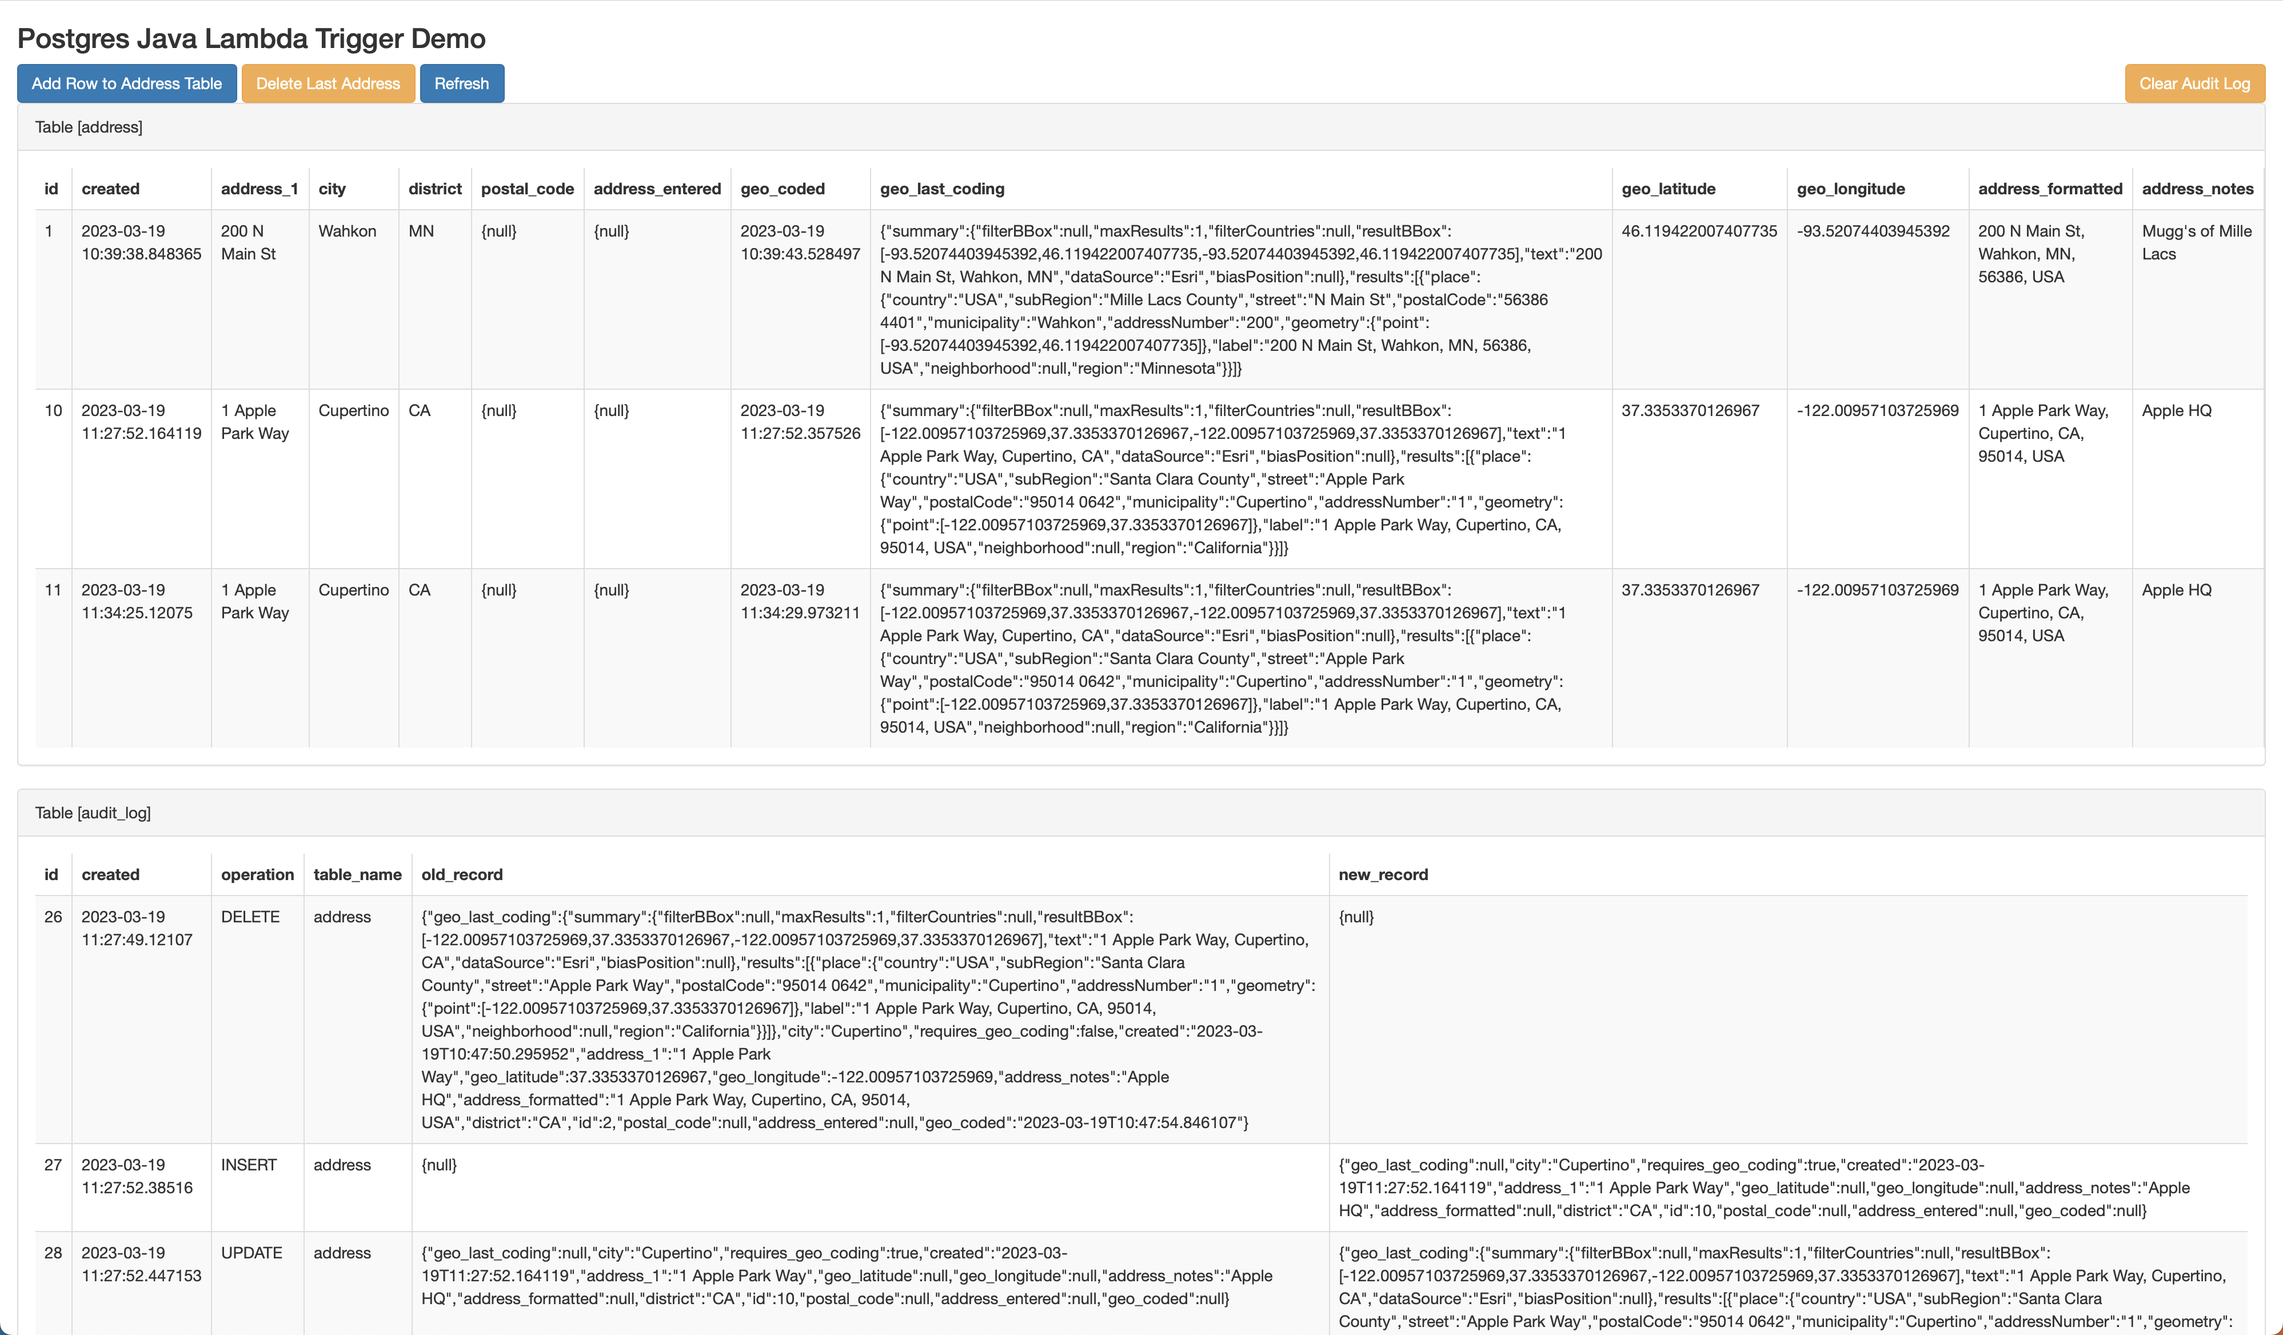
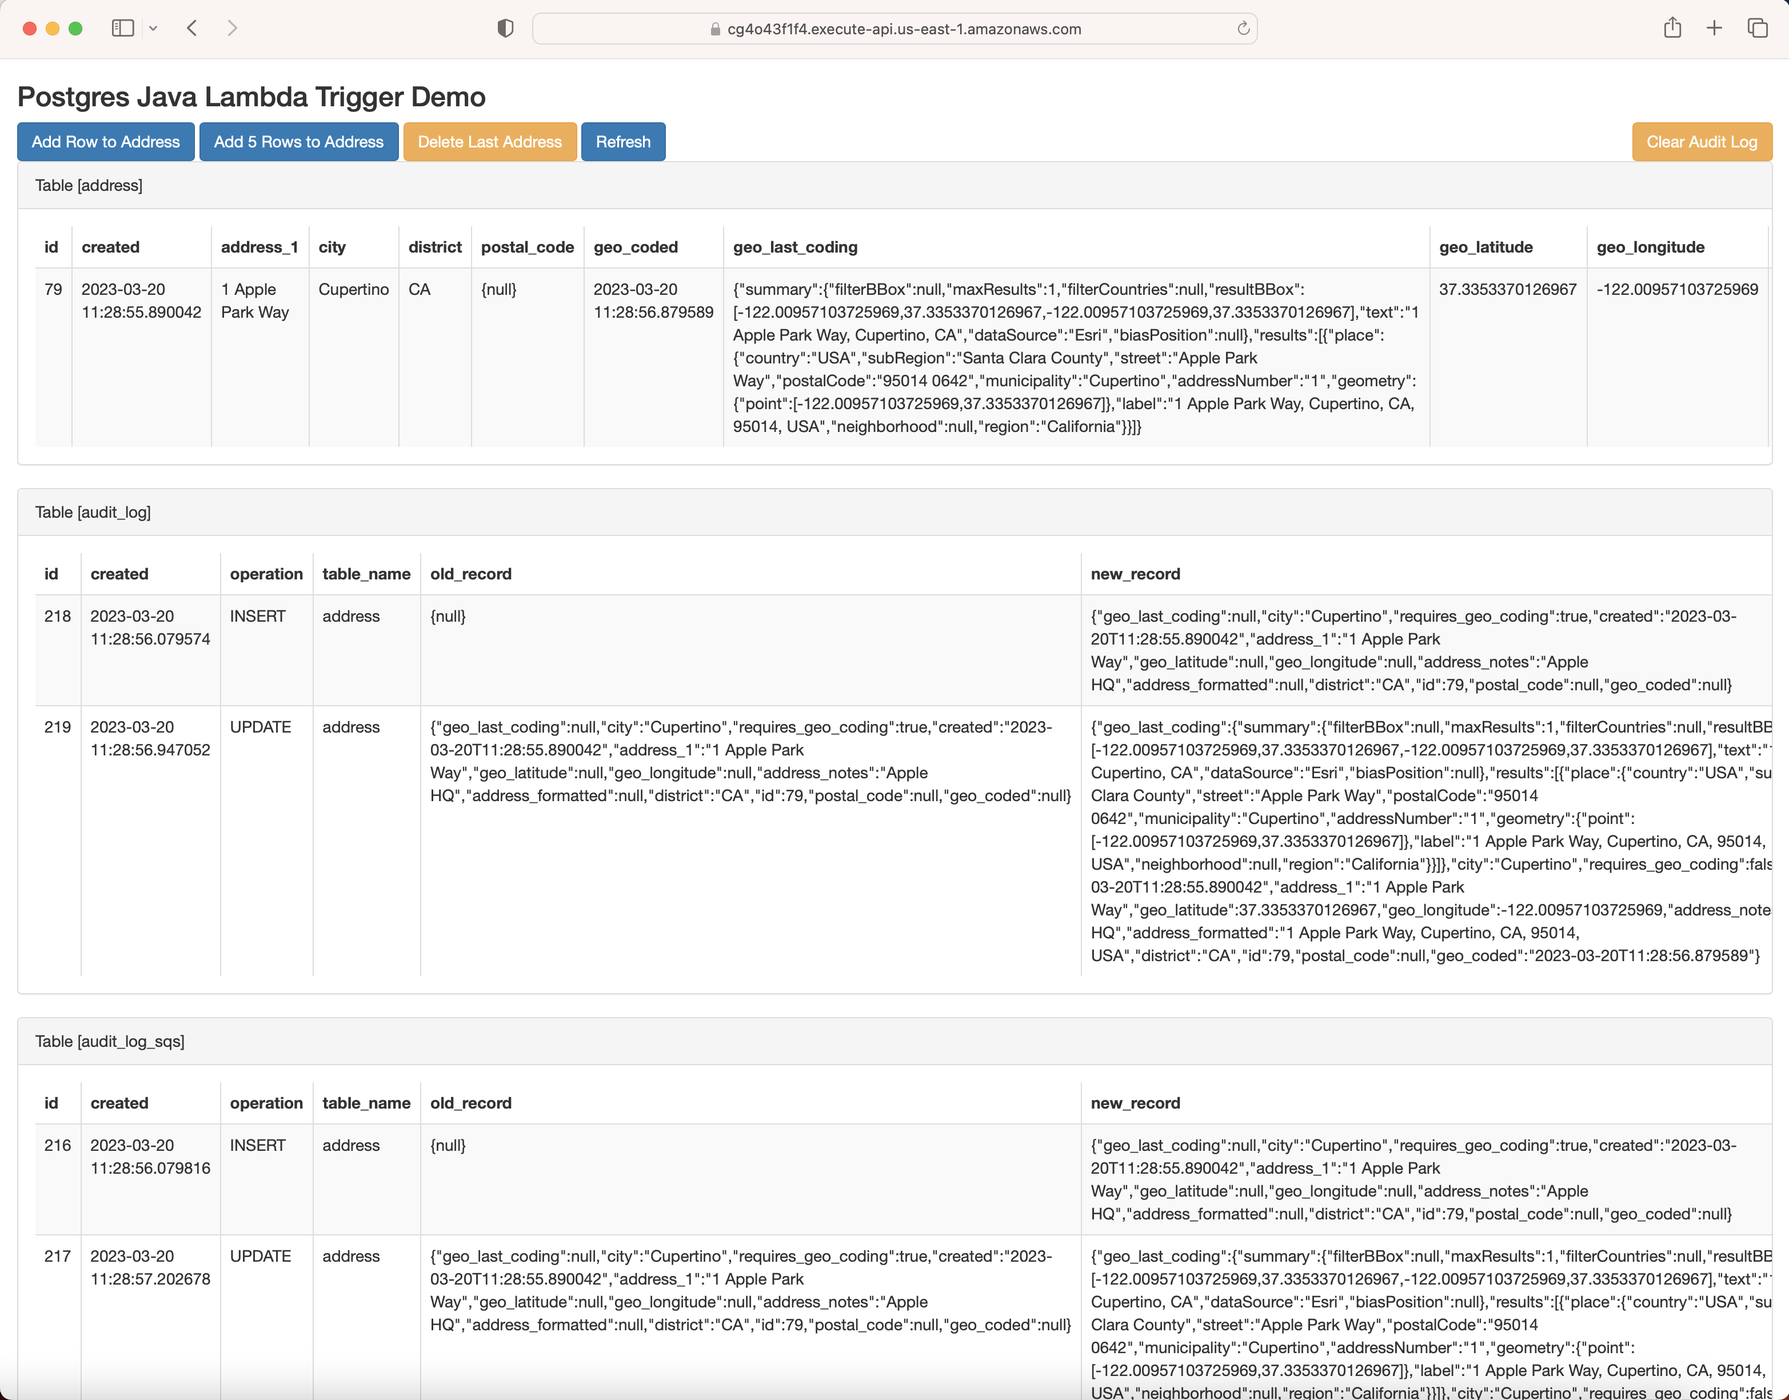
Added SQS Example

diff --git a/src/main/java/demo/PostgresAddressTrigger.java b/src/main/java/demo/PostgresAddressTrigger.java
@@ -4,7 +4,6 @@
  */
 package demo;
 
-
 import com.fasterxml.jackson.databind.JsonNode;
 import static demo.PostgresAbstractTrigger.TG_OP.INSERT;
 import java.util.Objects;
@@ -17,10 +16,9 @@ import software.amazon.awssdk.regions.Region;
 import software.amazon.awssdk.services.location.LocationClient;
 import software.amazon.awssdk.services.location.model.SearchPlaceIndexForTextResponse;
 
-
 /**
  * Geo Code Addresses that are added to the address table
- * 
+ *
  * @author sjensen
  */
 public class PostgresAddressTrigger extends PostgresAbstractTrigger {
@@ -34,10 +32,10 @@ public class PostgresAddressTrigger extends PostgresAbstractTrigger {
                 .credentialsProvider(EnvironmentVariableCredentialsProvider.create())
                 .httpClient(UrlConnectionHttpClient.builder().build())
                 .build();
-        
+
         PLACE_INDEX = System.getenv("PLACE_INDEX");
     }
-    
+
     @Override
     protected void processEvent(TG_OP operation, String table_name, JsonNode old_addr, JsonNode new_addr) {
 
@@ -51,11 +49,11 @@ public class PostgresAddressTrigger extends PostgresAbstractTrigger {
             // for now just look for address_1 changes
             var old_address_1 = old_addr.findValue("address_1") != null ? old_addr.findValue("address_1").asText() : null;
             var new_address_1 = new_addr.findValue("address_1") != null ? new_addr.findValue("address_1").asText() : null;
-            
-            if ( ! Objects.equals(old_address_1, new_address_1) ) {
+
+            if (!Objects.equals(old_address_1, new_address_1)) {
                 needs_geocode = true;
             }
-            
+
         }
 
         if (needs_geocode) {
@@ -70,12 +68,11 @@ public class PostgresAddressTrigger extends PostgresAbstractTrigger {
         // Build address String
         final var address = new StringBuilder(addr.findValue("address_1").asText());
 
-
         // Required
         address.append(", ").append(addr.findValue("city").asText());
         address.append(", ").append(addr.findValue("district").asText());
 
-        if (! addr.findValue("postal_code").isNull() ) {
+        if (!addr.findValue("postal_code").isNull()) {
             address.append("  ").append(addr.findValue("postal_code").asText());
         }
 
@@ -89,21 +86,27 @@ public class PostgresAddressTrigger extends PostgresAbstractTrigger {
 
         if (response.hasResults()) {
             final var place = response.results().get(0).place();
-            
+
             // Take the response and create a serializable version that we can later convert to JSON
             var last_coding = mapper.convertValue(response.toBuilder(), SearchPlaceIndexForTextResponse.serializableBuilderClass());
-            
-            dsl.update(DSL.table(DSL.name("address")))
+
+            try {
+                // Introduce slight delay for demo so you always see blank row on submission in UI
+                Thread.sleep(750);
+            } catch (InterruptedException ie) {
+            }
+
+            dsl.update(DSL.table("address"))
                     // Make sure we set this to false so we don't trigger ourselves again
-                    .set(DSL.field("requires_geo_coding",Boolean.class), false)
+                    .set(DSL.field("requires_geo_coding", Boolean.class), false)
                     .set(DSL.field("address_formatted"), place.label())
                     .set(DSL.field("geo_coded"), DSL.now())
-                    .set(DSL.field("geo_longitude",Double.class),place.geometry().point().get(0))
-                    .set(DSL.field("geo_latitude",Double.class),place.geometry().point().get(1))
-                    .set(DSL.field("geo_last_coding",JSONB.class),JSONB.jsonb(mapper.valueToTree(last_coding).toString()))
-                    .where(DSL.field("id",Integer.class).eq(addr.findValue("id").asInt()))
+                    .set(DSL.field("geo_longitude", Double.class), place.geometry().point().get(0))
+                    .set(DSL.field("geo_latitude", Double.class), place.geometry().point().get(1))
+                    .set(DSL.field("geo_last_coding", JSONB.class), JSONB.jsonb(mapper.valueToTree(last_coding).toString()))
+                    .where(DSL.field("id", Integer.class).eq(addr.findValue("id").asInt()))
                     .execute();
-            
+
         } else {
             log.info("Places query returned no results");
         }

diff --git a/src/main/java/demo/PostgresAuditLogTriggerSQS.java b/src/main/java/demo/PostgresAuditLogTriggerSQS.java
@@ -1,0 +1,74 @@
+/*
+ * Click nbfs://nbhost/SystemFileSystem/Templates/Licenses/license-default.txt to change this license
+ * Click nbfs://nbhost/SystemFileSystem/Templates/Classes/Class.java to edit this template
+ */
+package demo;
+
+import com.amazonaws.services.lambda.runtime.Context;
+import com.amazonaws.services.lambda.runtime.RequestHandler;
+import com.amazonaws.services.lambda.runtime.events.SQSEvent;
+import com.fasterxml.jackson.databind.ObjectMapper;
+import org.apache.logging.log4j.LogManager;
+import org.apache.logging.log4j.Logger;
+import org.jooq.DSLContext;
+import org.jooq.JSONB;
+import org.jooq.impl.DSL;
+
+/*
+ * Audit log trigger that takes incoming event and writes to audit log table
+
+  CREATE TABLE IF NOT EXISTS audit_log_sqs (
+    id BIGSERIAL PRIMARY KEY,
+    created timestamp without time zone NOT NULL DEFAULT timezone('utc'::text, now()),
+    operation tg_op NOT NULL,
+    table text NOT NULL,
+    old_record jsonb,
+    new_record jsonb
+);
+ * 
+ * Receive the SQS payload for Audit log entry
+ */
+public class PostgresAuditLogTriggerSQS implements RequestHandler<SQSEvent, Void> {
+
+    final Logger log = LogManager.getLogger();
+
+    final static DSLContext dsl = PostgresDataSource.getDSL();
+
+    final static ObjectMapper mapper = new ObjectMapper();
+
+    @Override
+    public Void handleRequest(SQSEvent event, Context context) {
+        try {
+            // We will only ever get one message set on the trigger
+            SQSEvent.SQSMessage mesg = event.getRecords().get(0);
+            String body = mesg.getBody();
+
+            if (body == null || body.isEmpty()) {
+                log.error("Message Body is empty, ignoring message");
+                return null;
+            }
+            // Read in JSON Tree 
+            var json = mapper.readTree(body);
+            log.debug("INPUT EVENT JSON is " + json.toPrettyString());
+
+            final var operation = json.findValue("TG_OP").asText();
+            final var table_name = json.findValue("TG_TABLE_NAME").asText();
+            final var old_record = json.findValue("old");
+            final var new_record = json.findValue("new");
+
+            // Just insert an Audit row for the operation
+            dsl.insertInto(DSL.table("audit_log_sqs"))
+                    .set(DSL.field("operation"), operation)
+                    .set(DSL.field("table_name"), table_name)
+                    .set(DSL.field("old_record", JSONB.class), old_record == null || old_record.isNull() ? null : JSONB.jsonb(old_record.toString()))
+                    .set(DSL.field("new_record", JSONB.class), new_record == null || new_record.isNull() ? null : JSONB.jsonb(new_record.toString()))
+                    .execute();
+
+        } catch (Exception e) {
+            log.error("Error Processing Event", e);
+        }
+
+        return null;
+    }
+
+}

diff --git a/src/main/java/demo/CreateMultipleAddressFrontEnd.java b/src/main/java/demo/CreateMultipleAddressFrontEnd.java
@@ -1,0 +1,48 @@
+package demo;
+
+import org.jooq.impl.DSL;
+
+/**
+ * Handler for requests to Lambda function.
+ */
+public class CreateMultipleAddressFrontEnd extends AbstractActionFrontEnd {
+
+    @Override
+    protected void performAction() {
+        // Insert 5 addresses in one transaction so they all hit at once
+        dsl.transaction((configuration) -> {
+            var dslT = configuration.dsl();
+            dslT.insertInto(ADDRESS_TABLE)
+                .set(DSL.field("address_1"), "One Microsoft Way")
+                .set(DSL.field("city"), "Redmond")
+                .set(DSL.field("district"), "WA")
+                .set(DSL.field("address_notes"), "Batch Address #1")
+                .execute();
+            dslT.insertInto(ADDRESS_TABLE)
+                .set(DSL.field("address_1"), "1 Tesla Road")
+                .set(DSL.field("city"), "Austin")
+                .set(DSL.field("district"), "TX")
+                .set(DSL.field("address_notes"), "Batch Address #2")
+                .execute();
+            dslT.insertInto(ADDRESS_TABLE)
+                .set(DSL.field("address_1"), "1 Rocket Road")
+                .set(DSL.field("city"), "Hawthorne")
+                .set(DSL.field("district"), "CA")
+                .set(DSL.field("address_notes"), "Batch Address #3")
+                .execute();
+            dslT.insertInto(ADDRESS_TABLE)
+                .set(DSL.field("address_1"), "1 State Farm Plaza")
+                .set(DSL.field("city"), "Bloomington")
+                .set(DSL.field("district"), "IL")
+                .set(DSL.field("address_notes"), "Batch Address #4")
+                .execute();
+            dslT.insertInto(ADDRESS_TABLE)
+                .set(DSL.field("address_1"), "1030 Delta Blvd")
+                .set(DSL.field("city"), "Atlanta")
+                .set(DSL.field("district"), "GA")
+                .set(DSL.field("address_notes"), "Batch Address #5")
+                .execute();
+        });
+    }
+
+}

diff --git a/src/main/java/demo/FrontEnd.java b/src/main/java/demo/FrontEnd.java
@@ -36,7 +36,8 @@ public class FrontEnd implements RequestHandler<APIGatewayProxyRequestEvent, API
             final var sb = renderHTMLStart();
             
             sb.append("<h3>Postgres Java Lambda Trigger Demo</h3>");
-            sb.append("<a href=\"/create\" class=\"btn btn-primary\" role=\"button\">Add Row to Address Table</a>\n");
+            sb.append("<a href=\"/create\" class=\"btn btn-primary\" role=\"button\">Add Row to Address</a>\n");
+            sb.append("<a href=\"/multiple\" class=\"btn btn-primary\" role=\"button\">Add 5 Rows to Address</a>\n");
             sb.append("<a href=\"/delete\" class=\"btn btn-warning\" role=\"button\">Delete Last Address</a>\n");
             sb.append("<a href=\"javascript:location.reload()\" class=\"btn btn-primary\" role=\"button\">Refresh</a>\n");
             sb.append("<a href=\"/audit\" class=\"btn btn-warning pull-right\" role=\"button\">Clear Audit Log</a>\n");

diff --git a/src/main/java/demo/PostgresAuditLogTrigger.java b/src/main/java/demo/PostgresAuditLogTrigger.java
@@ -36,13 +36,12 @@ public class PostgresAuditLogTrigger extends PostgresAbstractTrigger {
     protected void processEvent(TG_OP operation, String table_name, JsonNode old_record, JsonNode new_record) {
 
         // Just insert an Audit row for the operation
-        var result = dsl.insertInto(DSL.table(DSL.name("audit_log")))
+        dsl.insertInto(DSL.table(DSL.name("audit_log")))
                 .set(DSL.field("operation"), operation.toString())
                 .set(DSL.field("table_name"), table_name)
                 .set(DSL.field("old_record",JSONB.class), old_record == null || old_record.isNull() ? null : JSONB.jsonb(old_record.toString()))
                 .set(DSL.field("new_record",JSONB.class), new_record == null || new_record.isNull() ? null : JSONB.jsonb(new_record.toString()))
                 .execute();
-        log.debug("Insert result for audit log entry = " + result);
     }
 
 }

diff --git a/src/main/java/demo/CloudFormationCustomResource.java b/src/main/java/demo/CloudFormationCustomResource.java
@@ -52,13 +52,13 @@ public class CloudFormationCustomResource extends AbstractCustomResourceHandler 
             }
 
             // Just Insert One address to kick things off
-            var result = dsl.insertInto(DSL.table(DSL.name("address")))
+            dsl.insertInto(DSL.table(DSL.name("address")))
                     .set(DSL.field("address_1"), "200 N Main St")
                     .set(DSL.field("city"), "Wahkon")
                     .set(DSL.field("district"), "MN")
                     .set(DSL.field("address_notes"), "Mugg's of Mille Lacs")
                     .execute();
-            log.debug("Insert result for address = " + result);
+            
 
         } catch (Exception e) {
             log.error("Could Not Process SQL Files", e);

diff --git a/src/main/java/demo/PostgresAbstractTrigger.java b/src/main/java/demo/PostgresAbstractTrigger.java
@@ -35,7 +35,7 @@ public abstract class PostgresAbstractTrigger implements RequestStreamHandler {
     public final void handleRequest(InputStream in, OutputStream out, Context cntxt) throws IOException {
         // Read in JSON Tree
         var json = mapper.readTree(in);
-        log.debug("INPUT JSON is " + json.toString());
+        log.debug("INPUT JSON is " + json.toPrettyString());
 
         try {
             final var operation = TG_OP.valueOf(json.findValue("TG_OP").asText());

diff --git a/src/main/java/demo/DeleteAuditLogFrontEnd.java b/src/main/java/demo/DeleteAuditLogFrontEnd.java
@@ -9,6 +9,7 @@ public class DeleteAuditLogFrontEnd extends AbstractActionFrontEnd {
     protected void performAction() {
         // Clear out the audit log
         dsl.truncate("audit_log").execute();
+        dsl.truncate("audit_log_sqs").execute();
     }
 
 }

diff --git a/README.md b/README.md
@@ -9,11 +9,12 @@ Why even use this feature?  If you have many code bases that are writing data to
 Things to consider:
 - If you fire off lambdas for row updates that themselves update the DB then you can quickly exaust connection and lambda resources.  If you update 1000 rows then you could have hundreds of lambdas fire and connect to the DB bringing everything to a grinding halt.  Therefore you should set [concurrency limits](https://aws.amazon.com/blogs/compute/managing-aws-lambda-function-concurrency/) on these lambda functions in most cases.
 - When you exceed the limit, you get a throttle on the lambda, and these will delay processing.  In some cases this OK, in the Geo coding use case we don't need the Geo coding to complete immediately, so it's OK.  In testing 1K+ row updates for Geo coding some row updates took over 1 minute to complete because of the retry back off.
-- If you need smoother execution of the events, then consider using a simple NodeJS Lambda (that won't be throttled) that takes the event payload and puts it on a SQS queue that another Lambda will process from the queue.
+- If you need smoother execution of the events, then consider using a simple NodeJS Lambda (that won't be throttled) that takes the event payload and puts it on a SQS queue that another Lambda will process from the queue.  See an example of this in the [template.yaml](template.yaml) file.
 
-Two use cases are covered in this demo:
+Three use cases are covered in this demo:
 - A Lambda([PostgresAddressTrigger.java](src/main/java/demo/PostgresAddressTrigger.java)) that will update the same row that the trigger is firing on.  In this case, we have an address table, and when addresses are inserted or updated, they will be geo-coded by the [AWS Location API](https://docs.aws.amazon.com/location/latest/APIReference/API_SearchPlaceIndexForText.html).  Special care is needed in this case to prevent recursive triggering of the function.
 - A Lambda ([PostgresAuditLogTrigger.java](src/main/java/demo/PostgresAuditLogTrigger.java)) that will simply log all actions on the address table to an audit_log table.  As shown in some AWS examples, you could then simply put the payload onto a SNS Topic or SQS Queue for downline processing.
+- A Lambda ([PostgresAuditLogTriggerSQS.java](src/main/java/demo/PostgresAuditLogTriggerSQS.java)) that will simply log all actions on the address table to an audit_log_sqs table.  This shows how to process the same event above from a SQS Queue.
 
 Another goal of the project was to demonstrate:
 - SAM CloudFormation example for all the components in play (`sam build` and then `sam deploy`) for simple deployment of the project.
@@ -71,6 +72,7 @@ You can find the API Gateway Endpoint URL in the output values displayed after d
 When you open the API GW Endpoint URL in your browser you will see the above UI.  When the DB initializes, one address row is inserted for you, so you should see 1 row with an address Geo encoded and 2 entries in the `audit_log` table.  The UI displays all the rows in both `address` and `audit_log` tables.  There are four actions to perform in the demo:
 
 - Add Row to Address Table - This adds Apple's HQ address to the table.  Normally after the refresh you would see the row without geo encoding.  If you then hit `Refresh`, you should see the Geo data populated into the row.
+- Add 5 Rows to Address Table - This adds 5 different addresses to the table.  Normally after the refresh you would see the rows without geo encoding.  If you then hit `Refresh`, you should see the Geo data populated into the rows.  Due to throttling this last one might be delayed a little.
 - Delete Last Address - This deletes the last address row from the `address` table.  You should see the last row go aways and an `audit_log` row for the delete action.
 - Refresh - Does a simple refresh of the page (which reads all the tables again)
 - Clear Audit Log - Truncates the `audit_log` table.
